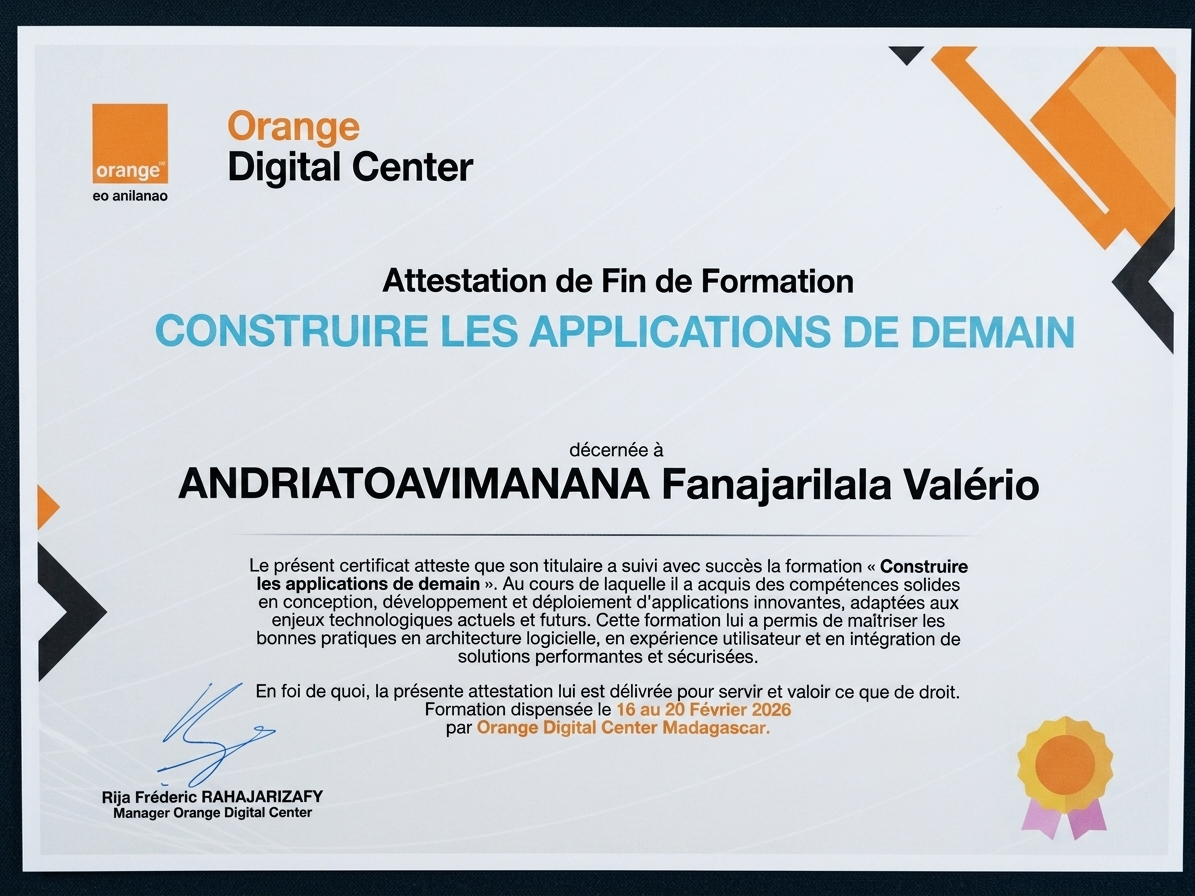
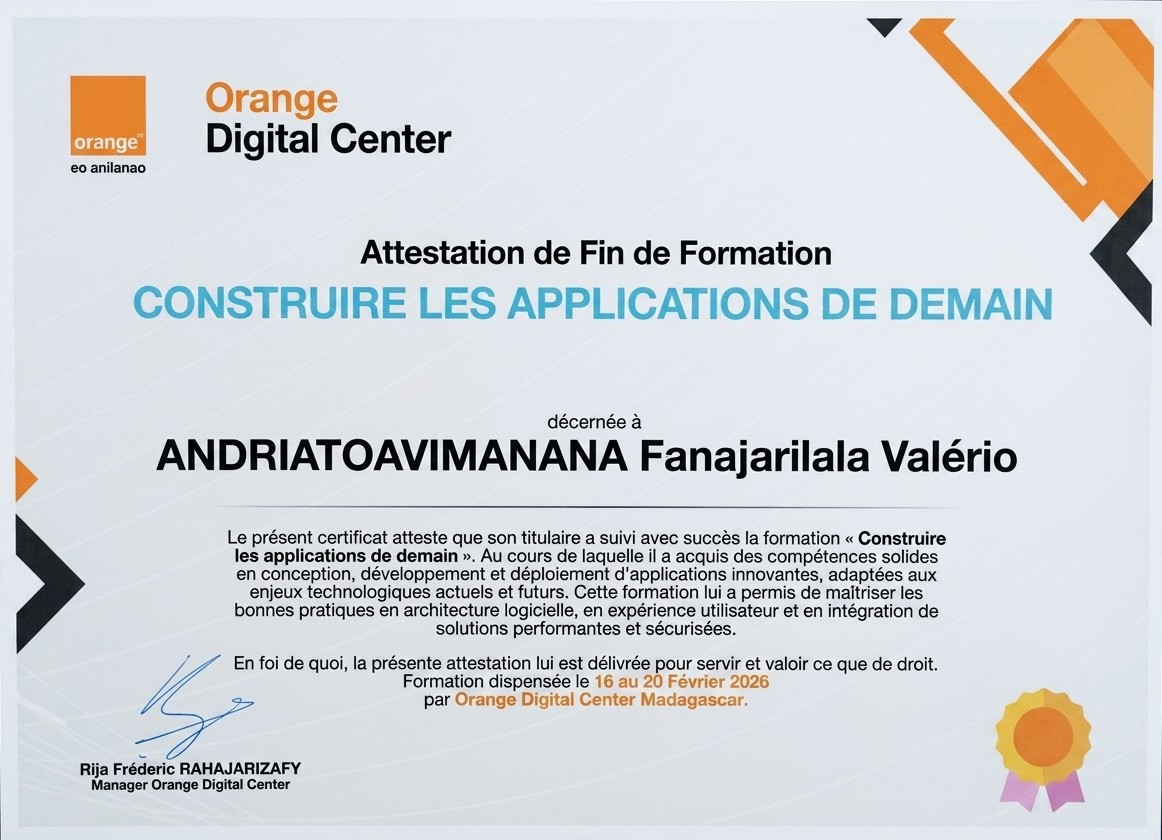
petit changement de données de certifications

Changed region(s): [[0.0, 0.0, 1.0, 1.0], [0.062, 0.0619, 0.4028, 0.2476]]

diff --git a/src/data/certifications.js b/src/data/certifications.js
@@ -6,6 +6,15 @@ import jee from "../assets/images/certifications/JEE.jpg";
 
 export const certifications = [
   {
+    title: "JEE / JSP",
+    period: "16 - 20 Février 2026",
+    organization: "Orange Digital Center Madagascar",
+    icon: FaJava,
+    color: "#ED8B00",
+    image: jee,
+  },
+
+  {
     title: "Docker Basics",
     period: "03 – 06 Mars 2026",
     organization: "Orange Digital Center Madagascar",
@@ -23,12 +32,4 @@ export const certifications = [
     image: git,
   },
 
-  {
-    title: "JEE / JSP",
-    period: "2026",
-    organization: "Orange Digital Center Madagascar",
-    icon: FaJava,
-    color: "#ED8B00",
-    image: jee,
-  },
 ];
